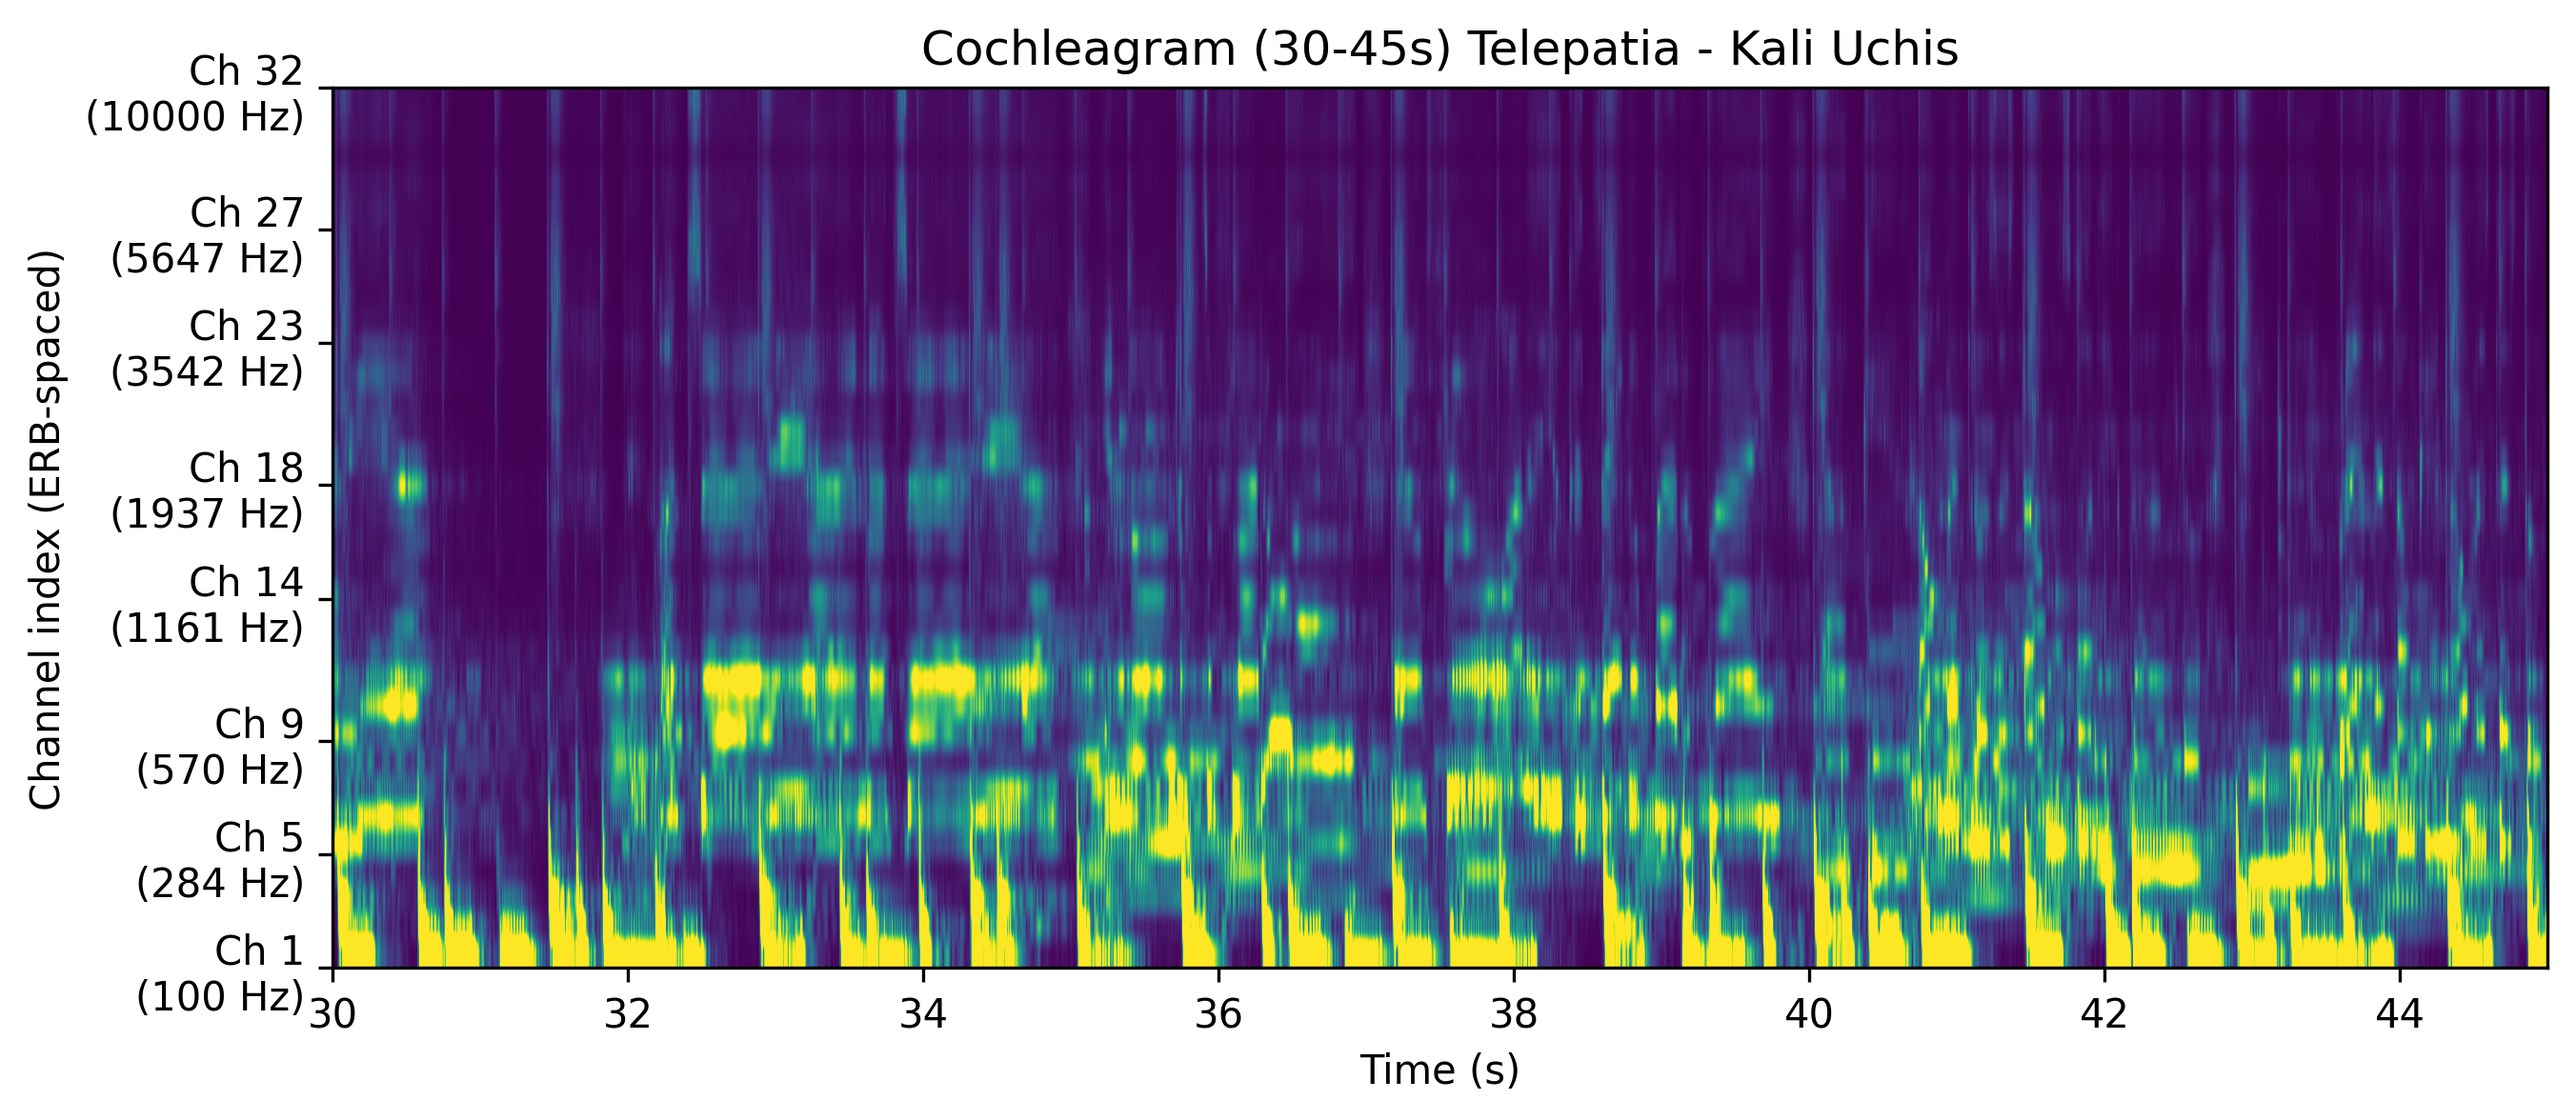
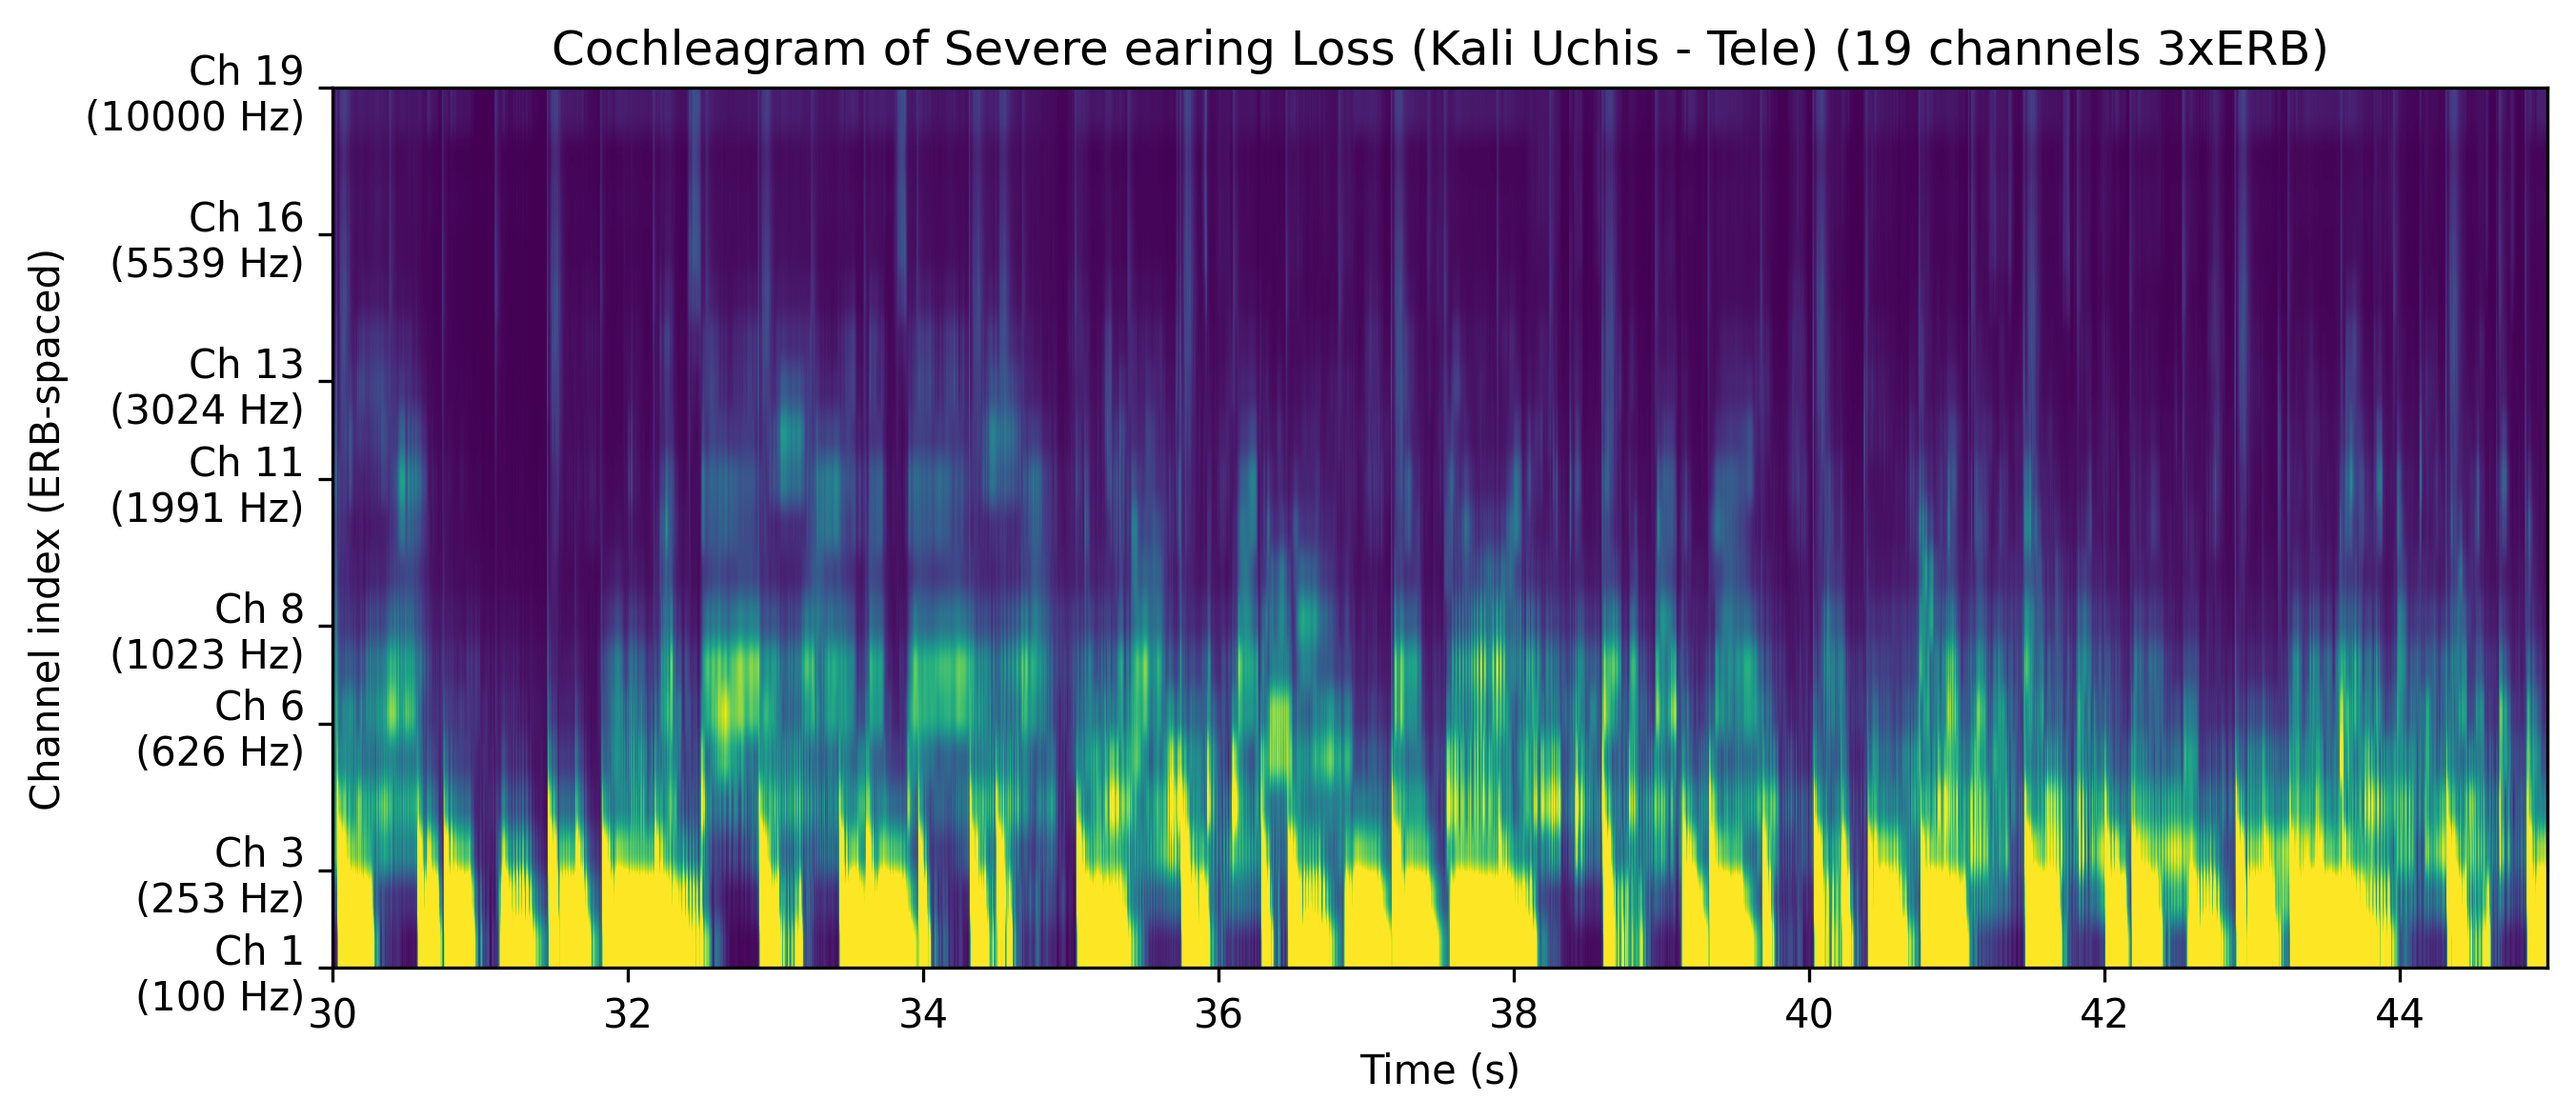
remember tony that you added a constant so please don't call it a bug the next time you open it

diff --git a/cochleagram.py b/cochleagram.py
@@ -65,9 +65,11 @@ A gammatone is a standard ear-inspired bandpass filter shape.
 Given a center frequency fc, it produces a short “ringing” impulse response.
 Convolving audio with this impulse response extracts the content near fc.
 """
-def gammatone(fs, fc, n=4, dur=0.08):
+
+BW_MULTI = 3.0  # severe (temp)
+def gammatone(fs, fc, n=4, dur=0.08,  bw_mult=1.0):
     t = np.arange(0, int(dur * fs)) / fs
-    b = 1.019 * erb_hz(fc)  # bandwidth term (wider at higher fc)
+    b = bw_mult * 1.019 * erb_hz(fc)  # bandwidth term (wider at higher fc)
     g = t**(n - 1) * np.exp(-2 * np.pi * b * t) * np.cos(2 * np.pi * fc * t)
     return g / np.sqrt(np.sum(g**2))  # normalize so bands are comparable
 
@@ -82,7 +84,7 @@ Build the cochleagram:
 Result:
 - C is a 2D array shaped (band, time)
 """
-N = 32
+N = 19
 centers = erb_centers(100, 10000, N)
 
 coch = []
@@ -92,7 +94,7 @@ band_idx = np.argmin(np.abs(centers - target_fc))
 y_filt_example = None
 
 for i, fc in enumerate(centers):
-    g = gammatone(fs, fc)
+    g = gammatone(fs, fc, bw_mult= BW_MULTI)
     y_filt = fftconvolve(y, g, mode="same")
 
     if i == band_idx:
@@ -128,7 +130,7 @@ imshow shows C as an image:
 # plt.yticks(tick_idx, [f"{centers[i]:.0f}" for i in tick_idx])
 
 # plt.xlabel("Time (s)")
-# plt.title("Cochleagram (Kali Uchis - Tele)")
+# plt.title("Cochleagram of Severe earing Loss (Kali Uchis - Tele) (19 channels 3xERB)")
 # plt.colorbar(label="Response")
 # plt.tight_layout()
 # plt.show()
@@ -155,7 +157,8 @@ plt.xlabel("Time (s)")
 plt.ylabel("Channel index (ERB-spaced)")
 tick_idx = np.linspace(0, N-1, 8).astype(int)
 plt.yticks(tick_idx + 1, [f"Ch {i+1}\n({centers[i]:.0f} Hz)" for i in tick_idx])
-plt.title("Cochleagram (30-45s) Telepatia - Kali Uchis")
+# plt.title("Cochleagram (30-45s) Telepatia - Kali Uchis")
+plt.title("Cochleagram of Severe earing Loss (Kali Uchis - Tele) (19 channels 3xERB)")
 plt.savefig("cochleagram.png", dpi=300, bbox_inches="tight")
 
 Cs = C[:, i0:i1]
@@ -167,7 +170,8 @@ plt.plot(np.arange(1, N+1), E)
 
 plt.xlabel("Channel index (low → high)")
 plt.ylabel("Normalized mean energy")
-plt.title("Energy profile over channels (30-45s)")
+# plt.title("Energy profile over channels (30-45s)")
+plt.title("Energy profile of severe over channels (30-45s)")
 plt.tight_layout()
 plt.savefig("energy_profile.png", dpi=300, bbox_inches="tight")
 plt.show()
